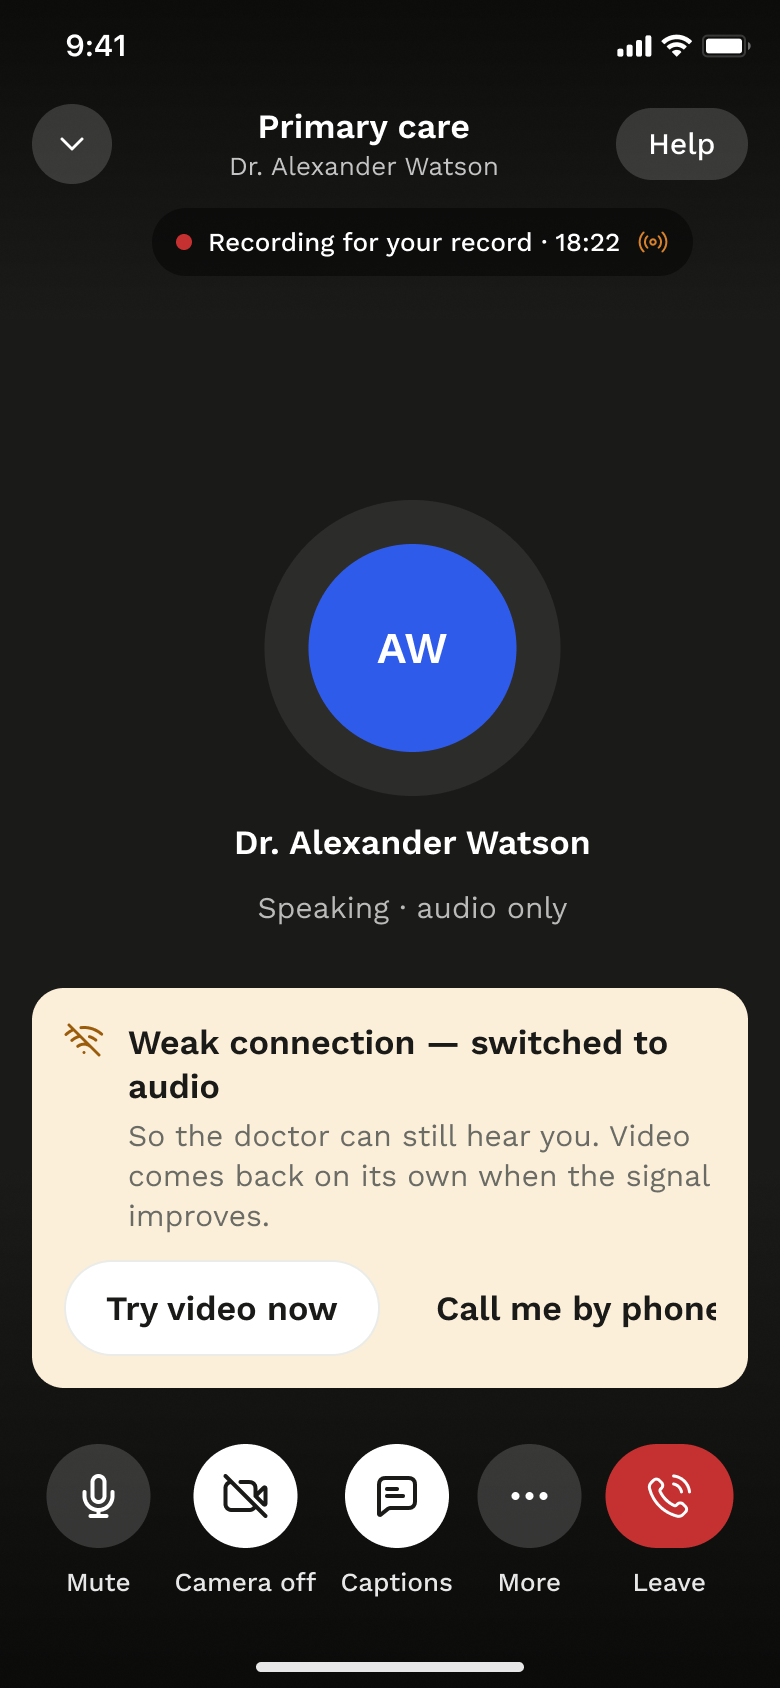
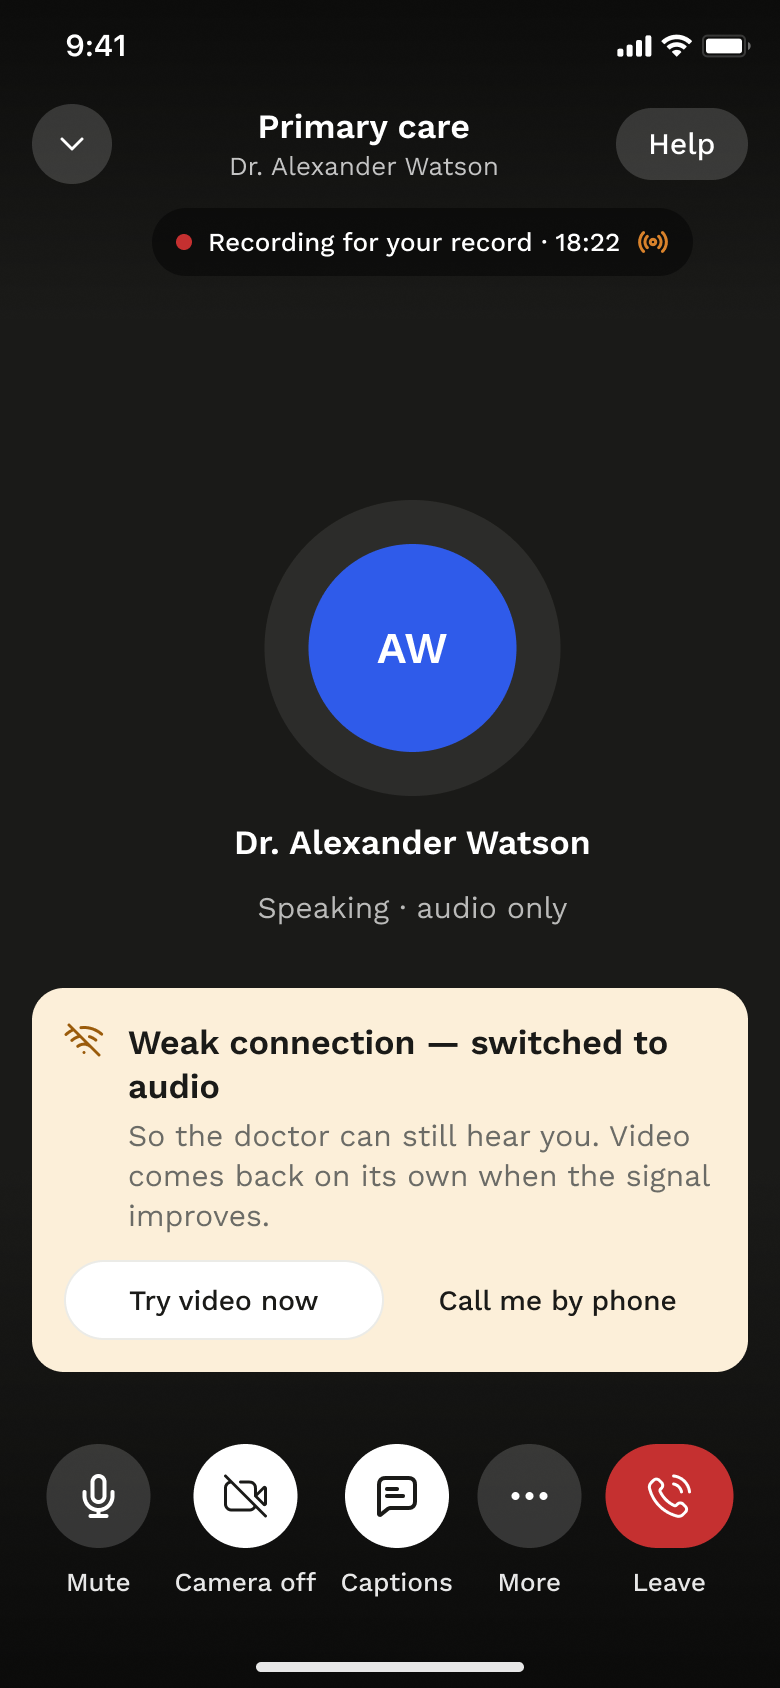
HealthConnect: mobile patterns as components (notice, list row, scale, call header and controls)

diff --git a/healthconnect.html b/healthconnect.html
@@ -440,7 +440,7 @@
             <figcaption><h3><span class="cs-num">5</span>With an interpreter</h3><p>An interpreter joins when the patient chose another language. Tiles show who is speaking and who is muted.</p></figcaption>
           </figure>
           <figure class="cs-slide">
-            <div class="cs-shot cs-shot--natural cs-shot--phone"><img src="assets/healthconnect/call/c06-weak-connection.png?v=3" width="780" height="1688" loading="lazy" alt="Audio-only call with a weak-connection banner and options to retry video or get a phone call" /></div>
+            <div class="cs-shot cs-shot--natural cs-shot--phone"><img src="assets/healthconnect/call/c06-weak-connection.png?v=4" width="780" height="1688" loading="lazy" alt="Audio-only call with a weak-connection banner and options to retry video or get a phone call" /></div>
             <figcaption><h3><span class="cs-num">6</span>Weak connection</h3><p>Instead of dropping, the call switches to audio and offers to retry video or continue by phone.</p></figcaption>
           </figure>
           <figure class="cs-slide">
@@ -527,8 +527,8 @@
         </div>
 
         <figure class="cs-feature">
-          <div class="cs-shot cs-shot--natural"><img src="assets/healthconnect/ds-mobile-components.png?v=2" width="3200" height="2724" loading="lazy" alt="Mobile components board: iOS navigation and tab bars, 48 pt buttons and fields, form footer, chips, segmented control and switch, day and time pickers, progress steps and status marks, video call controls and participant tiles" /></div>
-          <figcaption><h3>Mobile components</h3><p>Navigation, 48 pt controls, pickers, progress and the video call kit, all on the shared tokens.</p></figcaption>
+          <div class="cs-shot cs-shot--natural"><img src="assets/healthconnect/ds-mobile-components.png?v=3" width="3200" height="4064" loading="lazy" alt="Mobile components board: iOS navigation and tab bars, 48 pt buttons and fields, form footer, chips, segmented control and switch, day and time pickers, progress steps and status marks, video call controls and participant tiles, plus notices, list rows, a rating scale and the call header with status and controls" /></div>
+          <figcaption><h3>Mobile components</h3><p>Navigation, 48 pt controls, pickers, progress and the video call kit, plus the blocks that repeat across screens: notices, list rows, rating scales and the call header and controls. All on the shared tokens.</p></figcaption>
         </figure>
 
         <div class="cs-sub">
